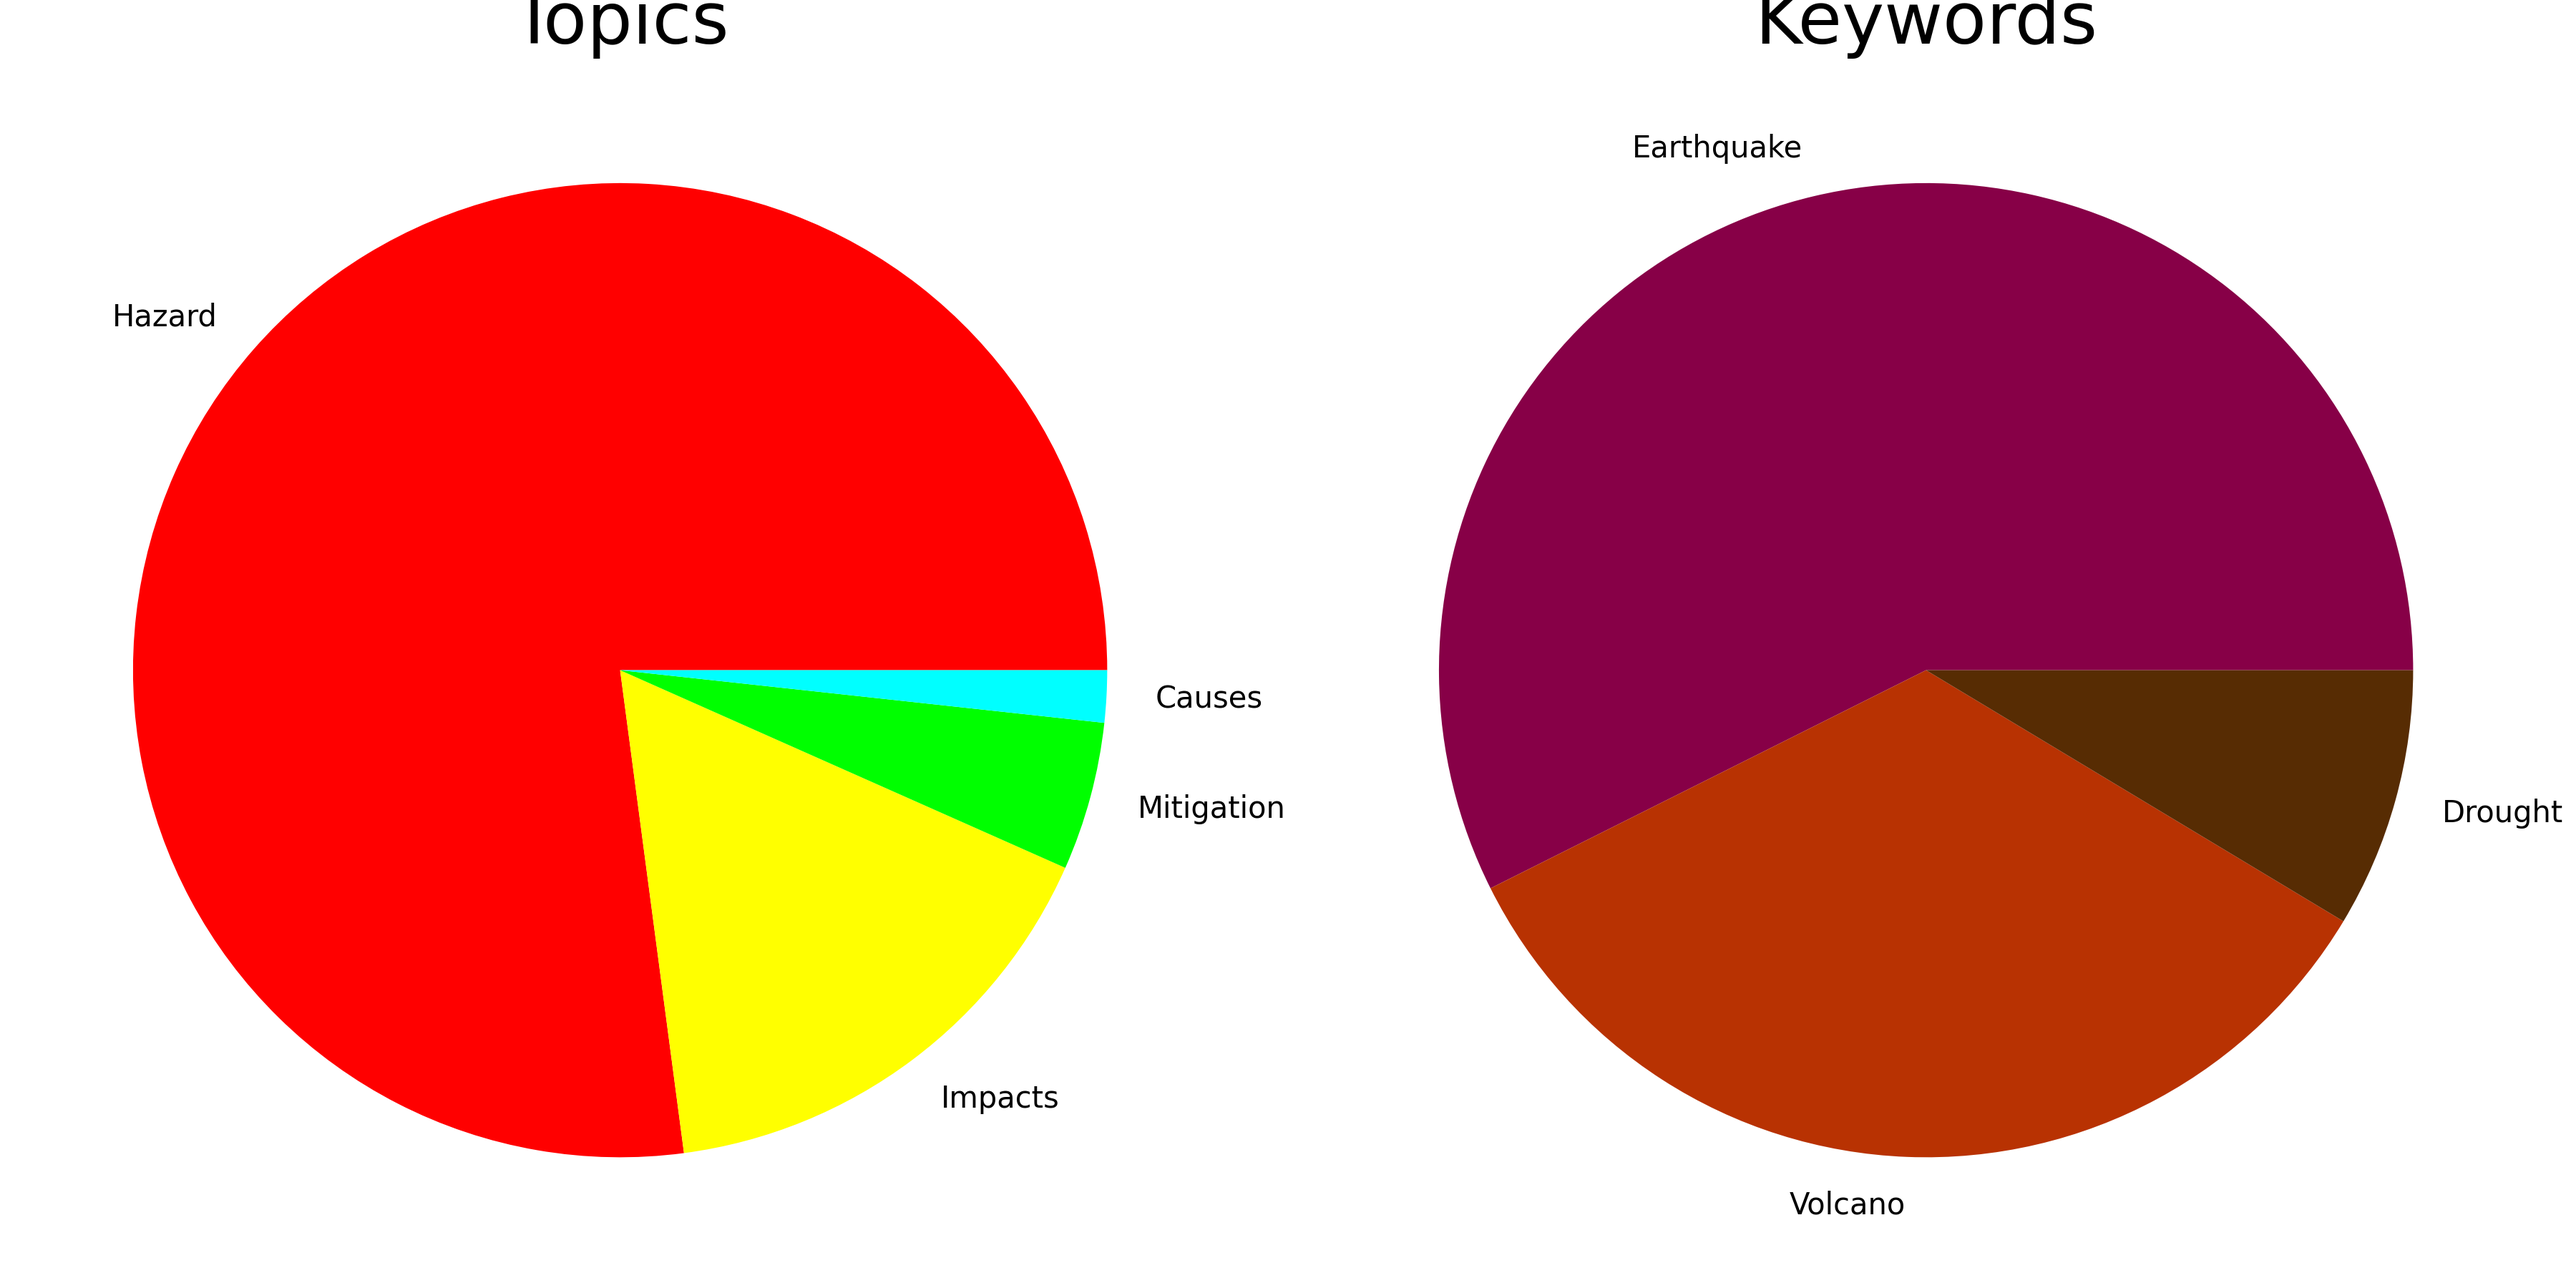
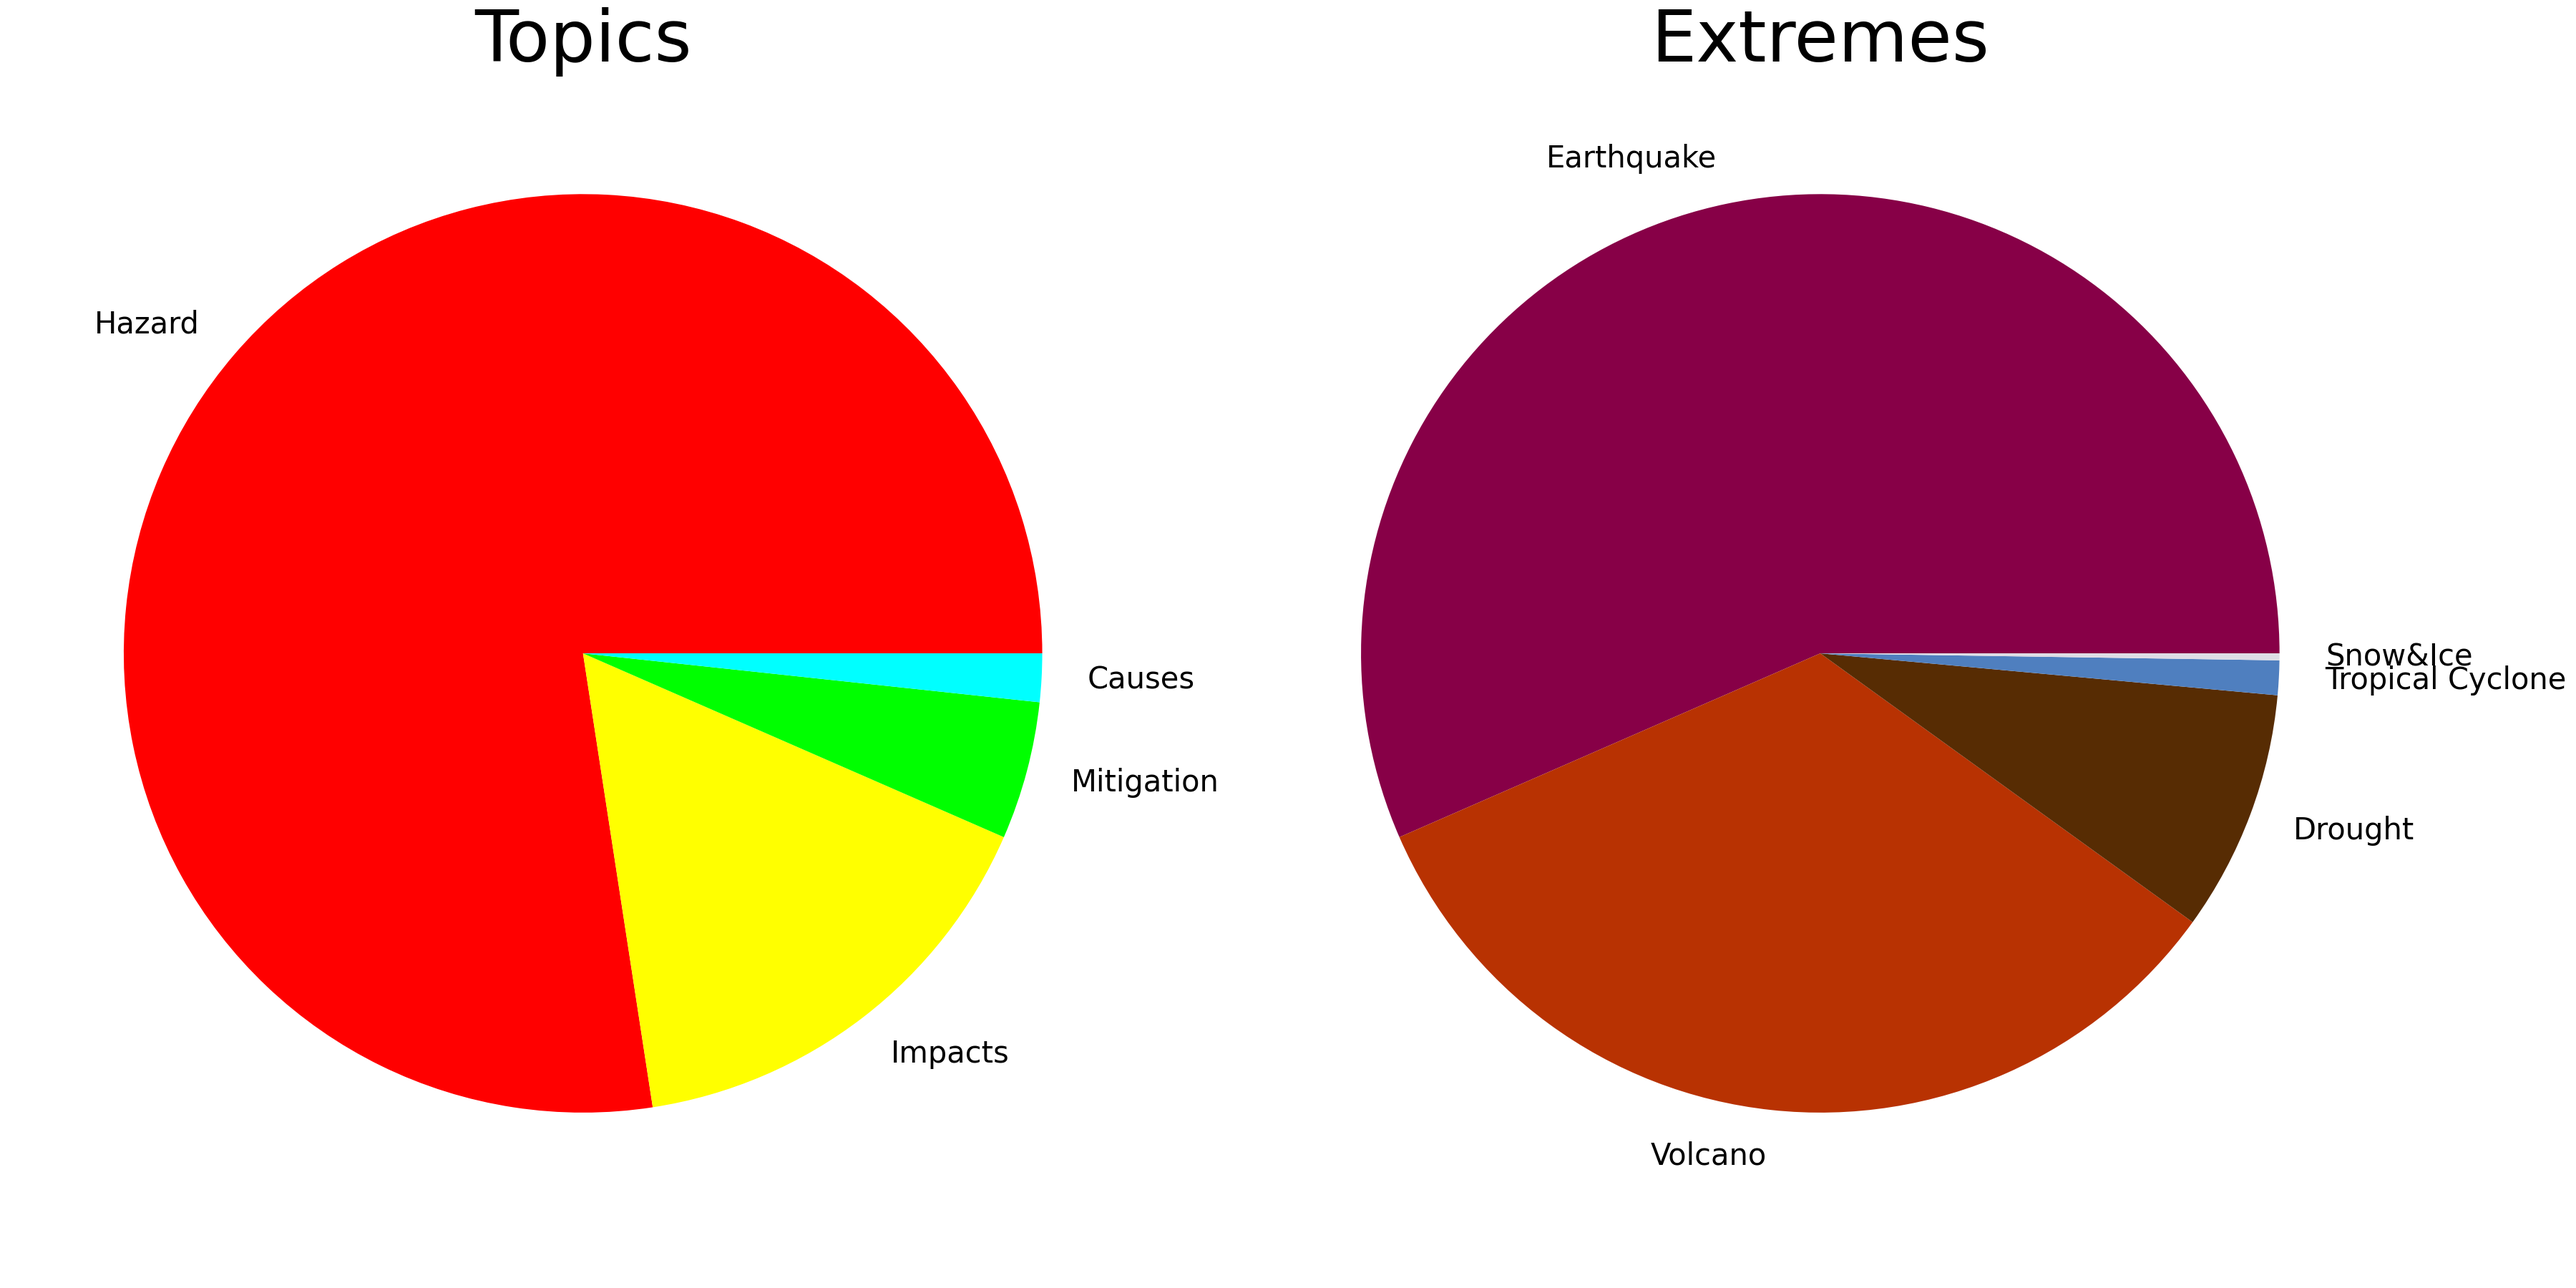
add heat avalanche fog

diff --git a/collect.py b/collect.py
@@ -46,6 +46,9 @@ githubRepos = {'MarcoL95-news/earthquakeIsComing': {'Extreme':'Earthquake'},
                'tlais147-physgeo01/snowIceIsComing': {'Extreme':'Snow&Ice'},
                'tapio-22-Digitale-Methoden-News/MassIsComing': {'Extreme':'Landslide'},
                'annajungfleischnews/coldIsComing': {'Extreme':'Cold Wave'},
+               'Leoniews/fogIsComing': {'Extreme':'Fog'},
+               'picawe-news/AvalancheIsComing': {'Extreme':'Snow Avalanche'},
+               'hannak555-news/heatIsComing': {'Extreme':'Heat Wave'},
               }
 
 currentMonths = []
